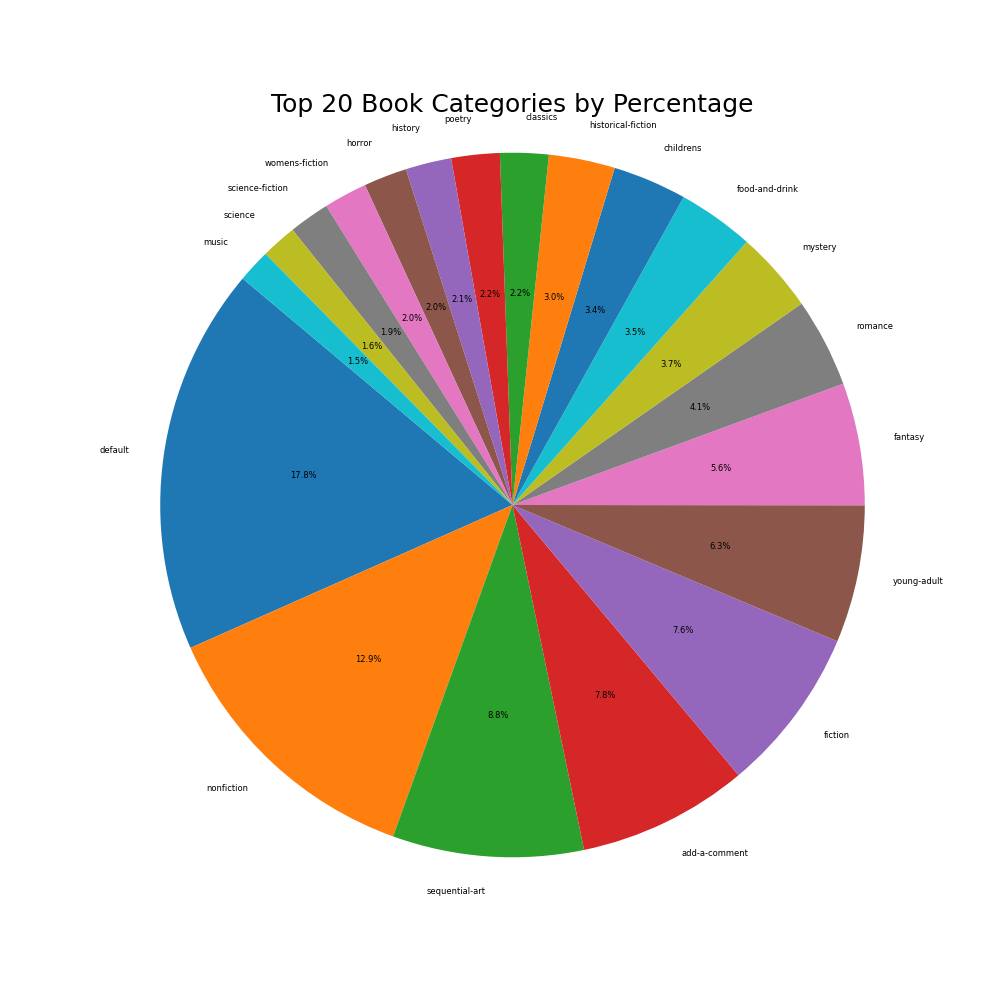
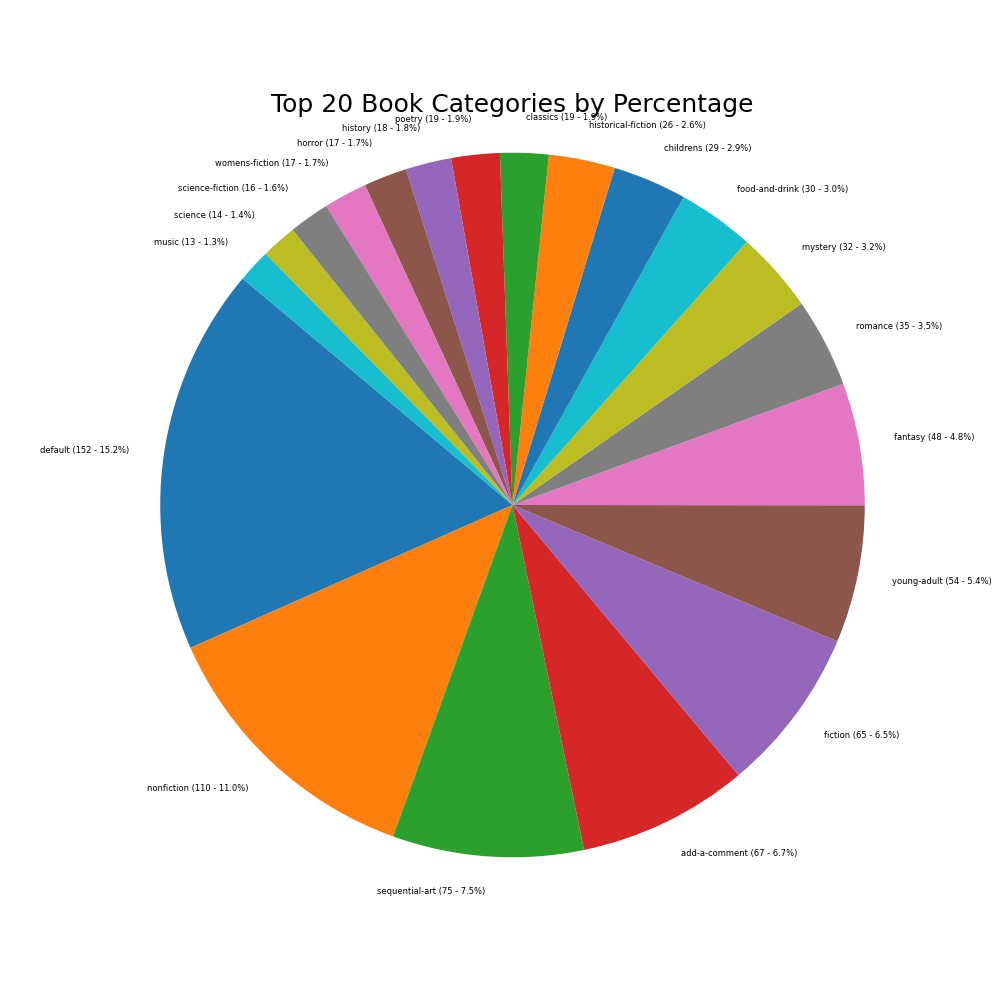
finish

diff --git a/bonus1.py b/bonus1.py
@@ -36,8 +36,12 @@ create_csv_category()
 def circle_diagram():
     df = pd.read_csv('books_details_by_category.csv')
     top_categories = df.nlargest(20, 'num_books_in_category')
+    total_books = df['num_books_in_category'].sum()
+    labels = [f"{cat} ({num} - {num/total_books*100:.1f}%)"
+              for cat, num in zip(top_categories['category'], top_categories['num_books_in_category'])]
+   
     plt.figure(figsize=(10, 10))
-    plt.pie(top_categories['num_books_in_category'], labels=top_categories['category'], autopct='%1.1f%%', startangle=140,textprops={'fontsize': 6})
+    plt.pie(top_categories['num_books_in_category'], labels=labels, startangle=140,textprops={'fontsize': 6})
     plt.rcParams.update({'font.size': 15})
     plt.axis('equal')
     plt.title('Top 20 Book Categories by Percentage')
